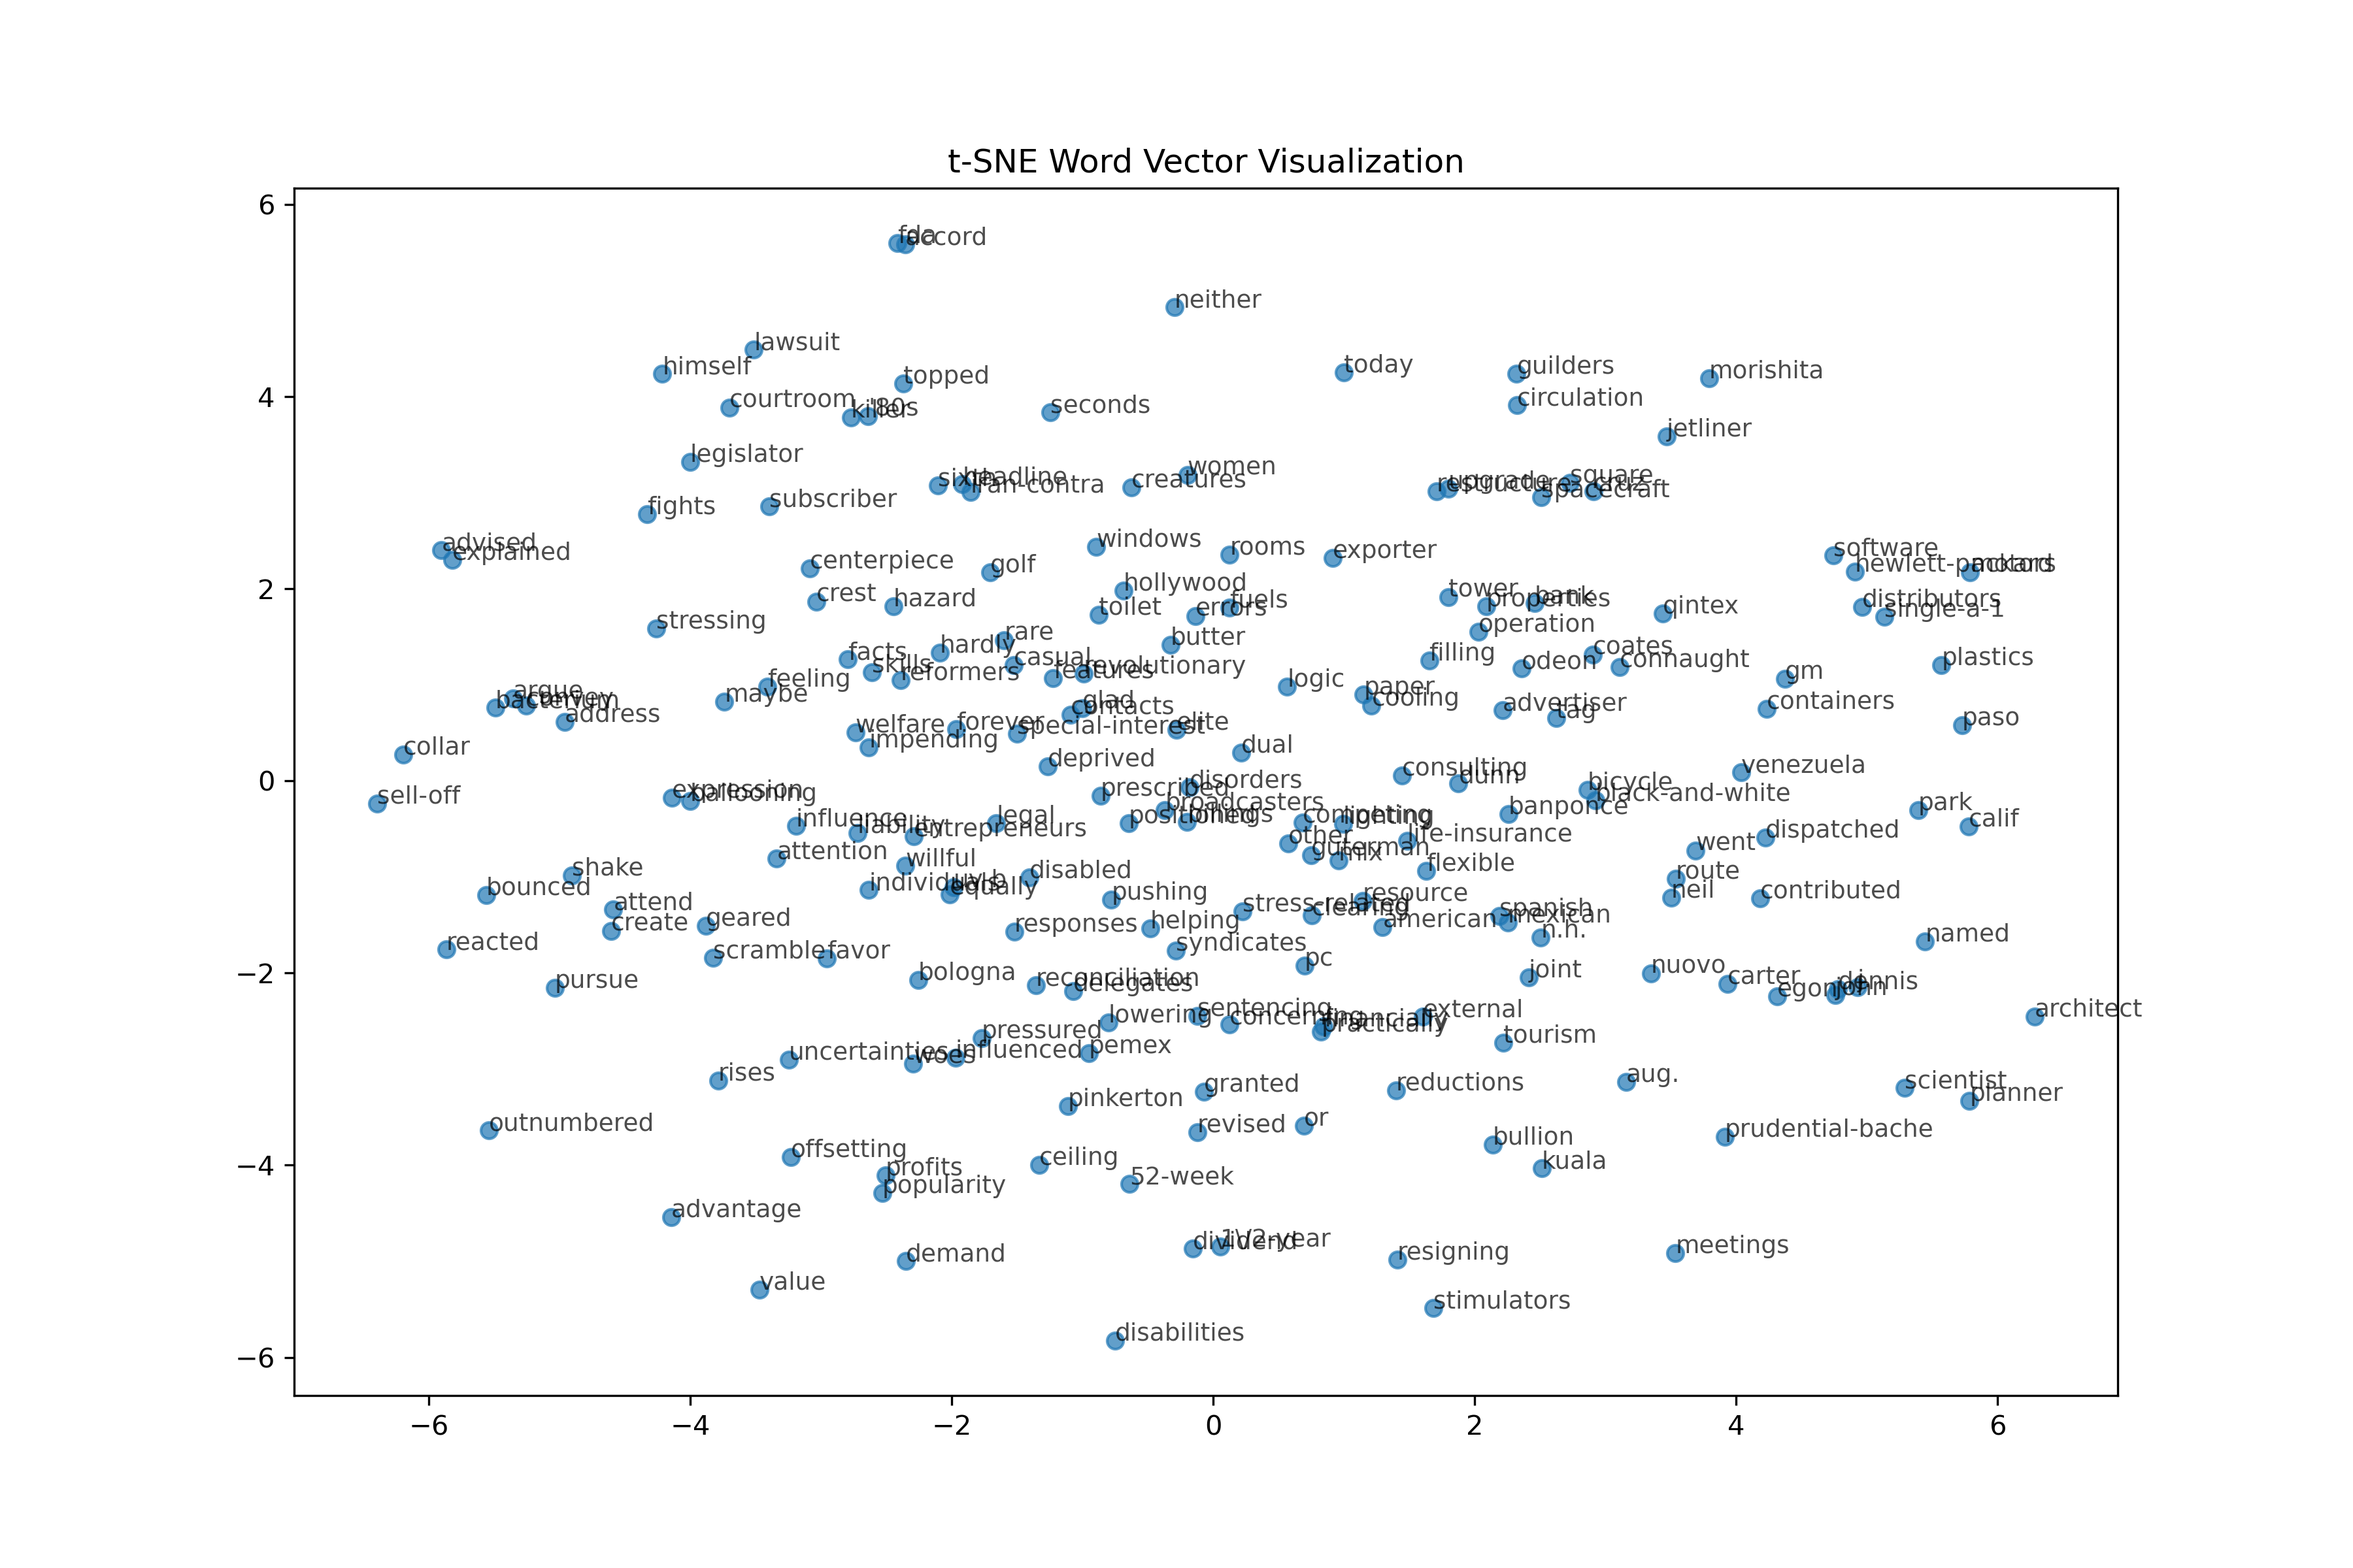
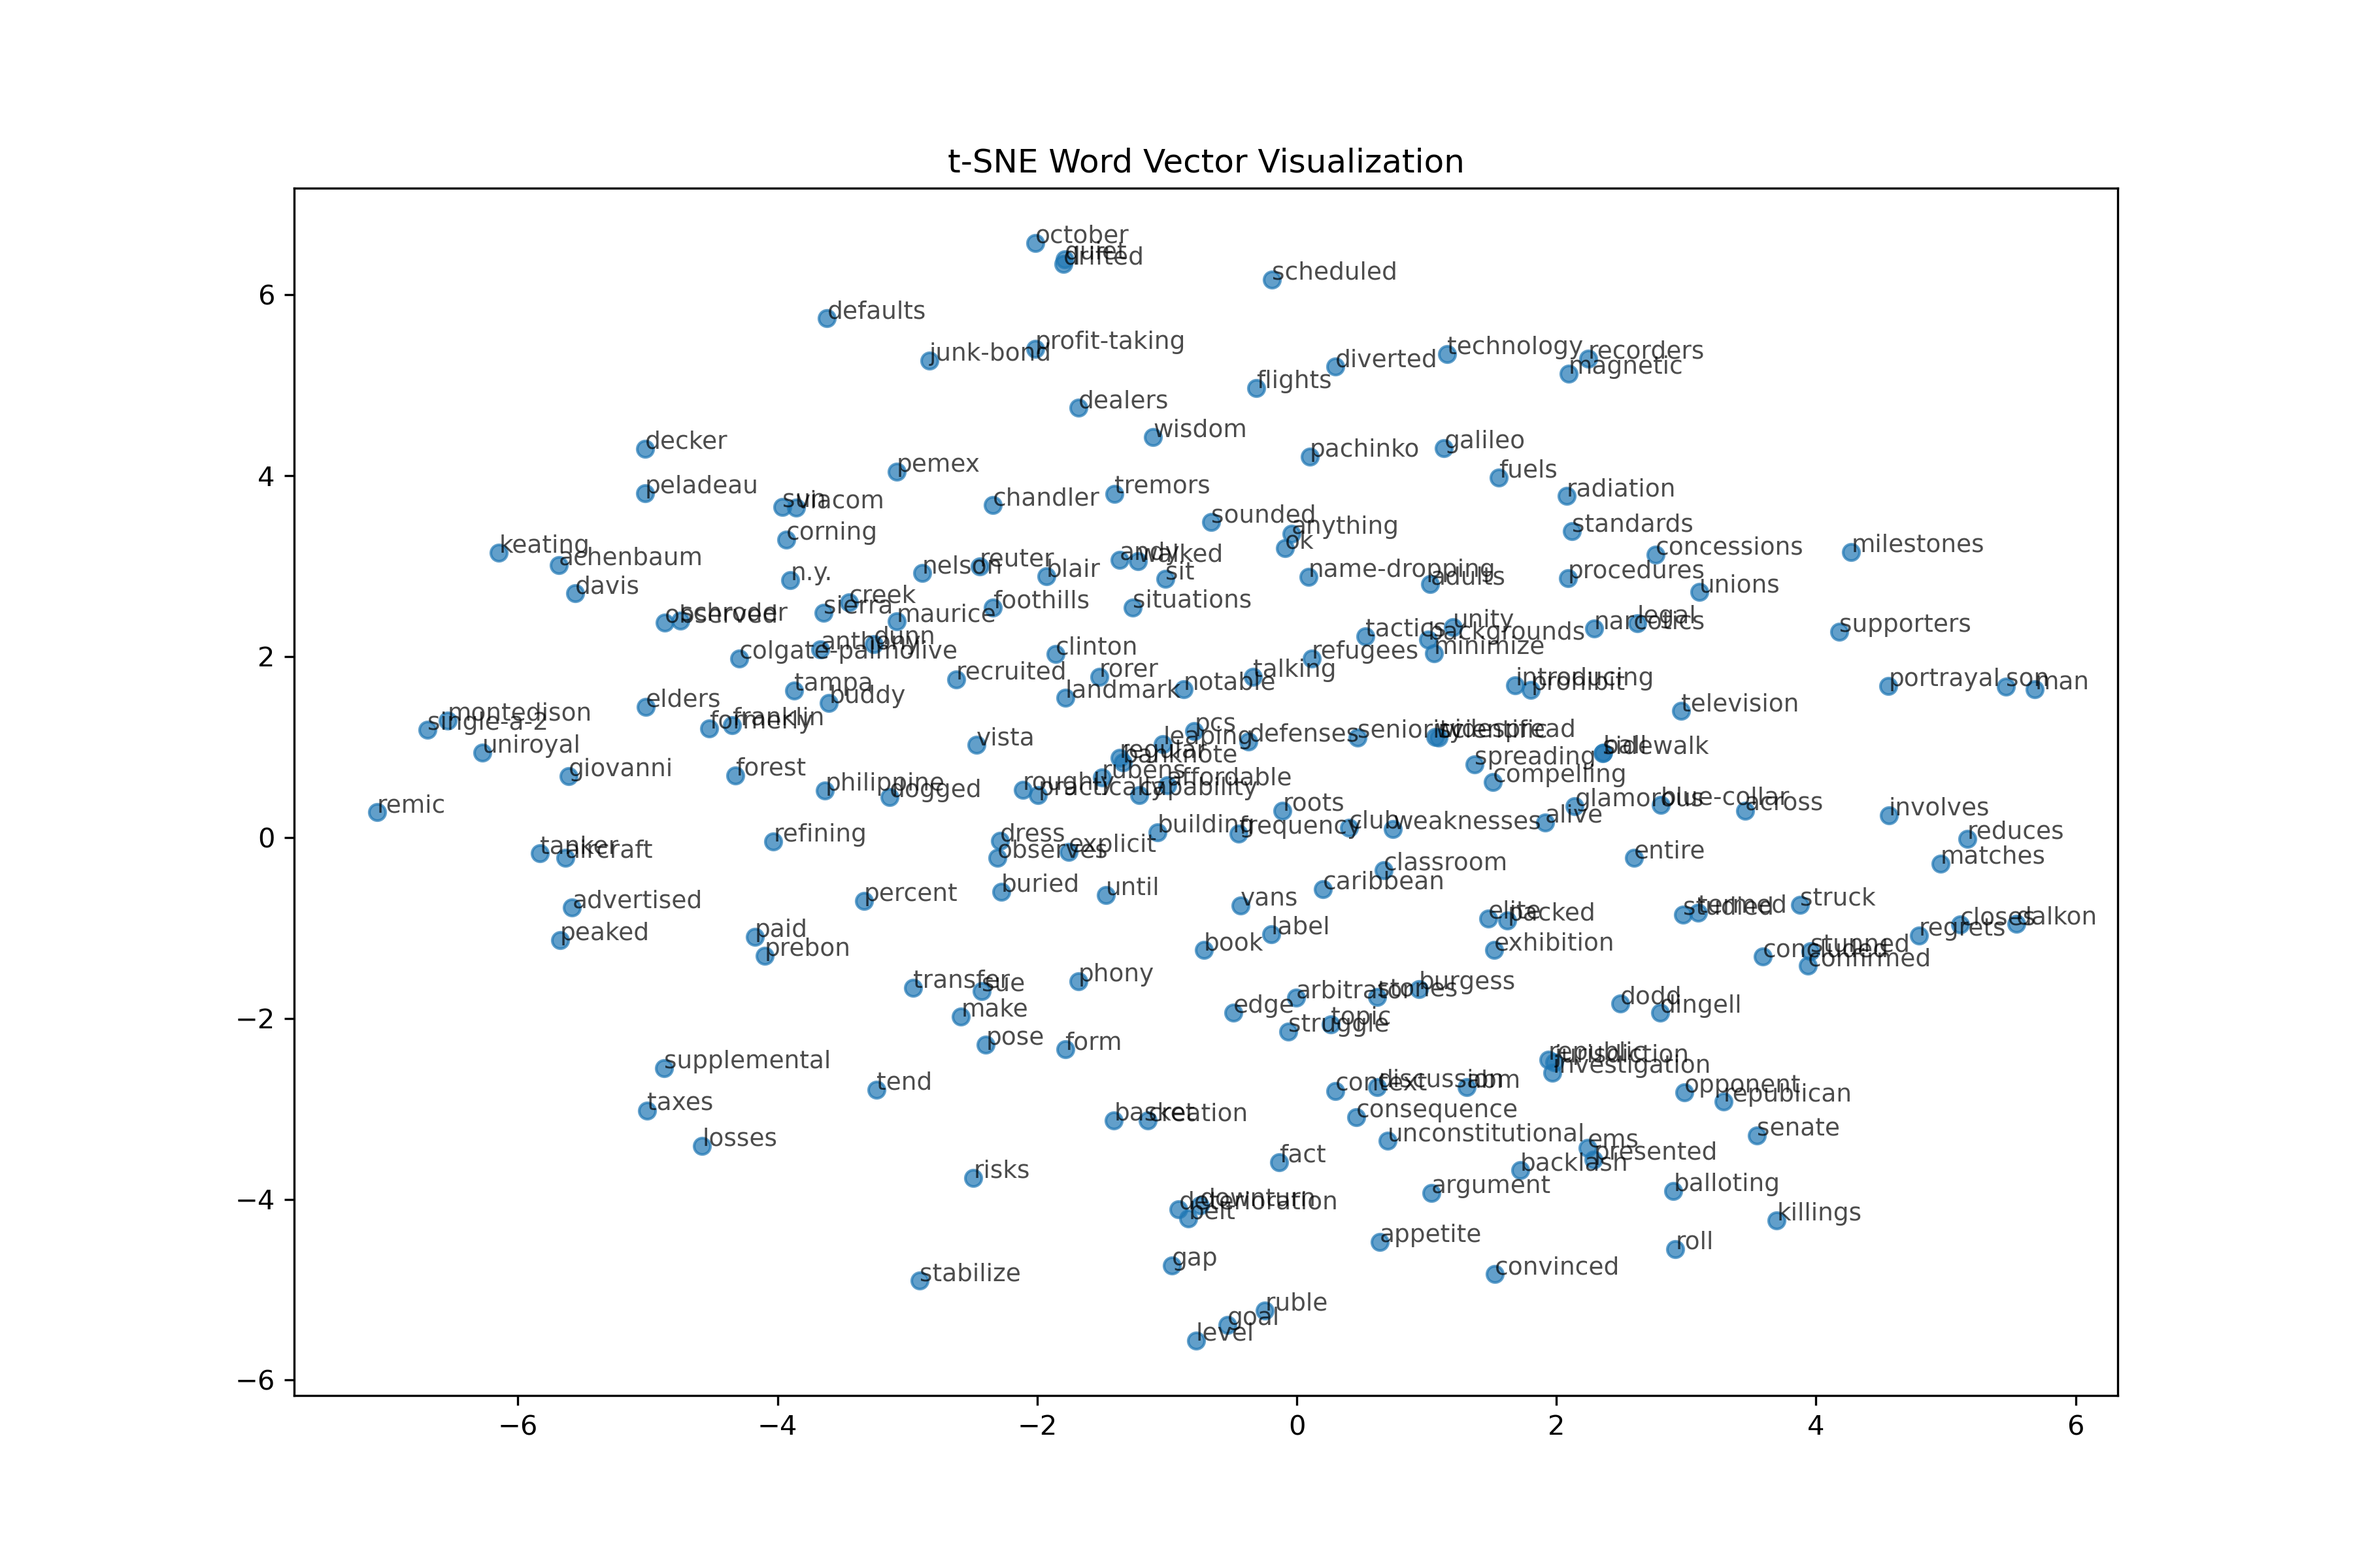
share fig

diff --git a/ch04/viz_tsne.py b/ch04/viz_tsne.py
@@ -12,10 +12,11 @@ def load_model(pkl_file):
 
 
 # t-SNE 변환 및 시각화
-def visualize_tsne(pkl_file, output_file="cbow_tsne.png", num_words=200):
+def visualize_tsne(pkl_file, output_file="cbow_tsne.png", num_words=200, seed=1000):
     params = load_model(pkl_file)
     word_vecs = params["word_vecs"]
     id_to_word = params["id_to_word"]
+    np.random.seed(seed)
 
     # 일부 단어만 선택 (너무 많으면 시각화가 어려움)
     selected_indices = np.random.choice(len(word_vecs), num_words, replace=False)
@@ -44,3 +45,5 @@ def visualize_tsne(pkl_file, output_file="cbow_tsne.png", num_words=200):
 # 사용 예시 (파일명 변경 필요)
 pkl_file = "cbow_params.pkl"  # 또는 'skipgram_params.pkl'
 visualize_tsne(pkl_file, "cbow_tsne.png")
+pkl_file = "skip_gram_params.pkl"
+visualize_tsne(pkl_file, "skip_gram_tsne.png")
